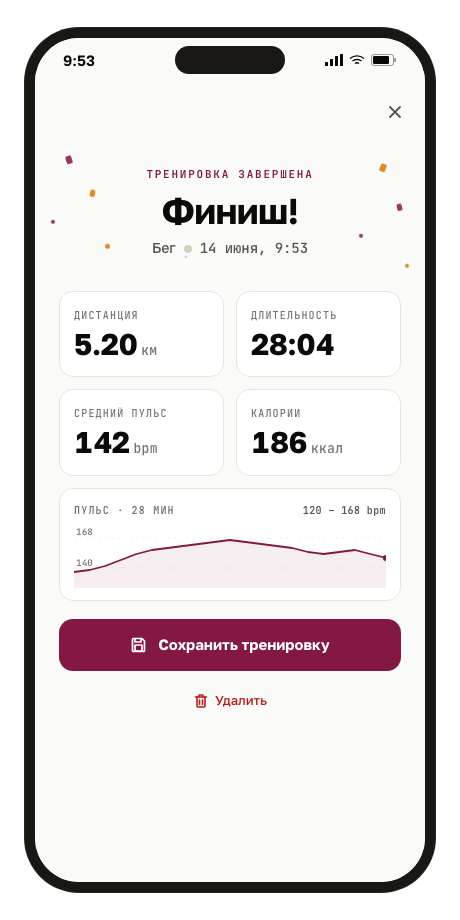
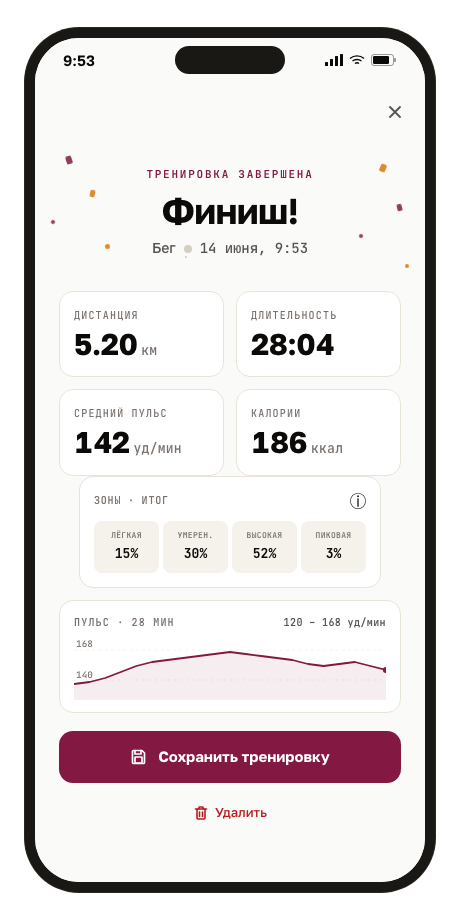
16a end-of-session + 16c close-confirm · итоговые зоны + русский
Post-session frames получили финальный zones-итог block
(без live-режима, только распределение %). Согласовано с PM
как вариант (b): zones-strip как итоговая статистика без STOP.

16a END-OF-SESSION SUMMARY (9:4):
- Добавлен блок 'Зоны · итог' между stats grid и sparkline
- 4 zones (Лёгкая 15% / Умерен. 30% / Высокая 52% active / Пиковая 3%)
- Chip 'уд/мин' вместо 'bpm' в stat card 'Средний пульс'
- Spark range '120–168 bpm' → '120–168 уд/мин'
- Кнопки 'Сохранить тренировку' / 'Удалить' сохранены
- Confetti + Hero 'Финиш!' сохранены

16c CLOSE CONFIRM (9:5):
- Same background layout (end-body-dimmed) — same zones-итог block dim
- Modal 'Закрыть без сохранения?' поверх с Удалить / Отмена
- Consistent с 16a background после rework

Infrastructure:
- Новый CSS .end-zones-card + .end-zones-head + .end-zones-title
- Slicer уже покрывал end-of-session file, никаких доп. правок

Все 5 state-фреймов training/post-training теперь консистентны с v3 layout:
15a stop-confirm · 15b auto-pause · 15c gps-lost · 16a end-of-session (итог) · 16c close-confirm

diff --git a/docs_web/wireframes/m3/mobile-state-end-of-session-bracelet-disconnect-v0.html b/docs_web/wireframes/m3/mobile-state-end-of-session-bracelet-disconnect-v0.html
@@ -1043,6 +1043,38 @@
       border-radius: 5px;
     }
 
+
+    /* End-of-session · zones-итог card */
+    .end-zones-card {
+      background: var(--card);
+      border: 1px solid var(--border);
+      border-radius: 14px;
+      padding: 12px 14px 14px;
+      margin: 0 20px;
+      display: flex;
+      flex-direction: column;
+      gap: 8px;
+    }
+    .end-zones-head {
+      display: flex;
+      align-items: center;
+      justify-content: space-between;
+    }
+    .end-zones-title {
+      font-family: 'JetBrains Mono', monospace;
+      font-size: 10px;
+      font-weight: 600;
+      letter-spacing: 0.08em;
+      text-transform: uppercase;
+      color: var(--muted-foreground);
+    }
+    .end-zones-strip {
+      background: transparent;
+      padding: 0;
+      border-top: none;
+      display: flex;
+      gap: 4px;
+    }
   </style>
 </head>
 <body>
@@ -1124,7 +1156,7 @@
                 <span class="l">Средний пульс</span>
                 <div class="row">
                   <span class="v">142</span>
-                  <span class="u">bpm</span>
+                  <span class="u">уд/мин</span>
                 </div>
               </div>
               <div class="end-stat-card" role="listitem">
@@ -1136,11 +1168,25 @@
               </div>
             </div>
 
+            <!-- Zones · итог (post-session summary) -->
+            <div class="end-zones-card">
+              <div class="end-zones-head">
+                <span class="end-zones-title">Зоны · итог</span>
+                <button class="info-btn" aria-label="Как рассчитываются зоны">ⓘ</button>
+              </div>
+              <div class="zones-strip end-zones-strip">
+                <div class="zone-cell"><span class="z-lbl long">ЛЁГКАЯ</span><span class="z-pct">15%</span></div>
+                <div class="zone-cell"><span class="z-lbl long">УМЕРЕН.</span><span class="z-pct">30%</span></div>
+                <div class="zone-cell active"><span class="z-lbl long">ВЫСОКАЯ</span><span class="z-pct">52%</span></div>
+                <div class="zone-cell"><span class="z-lbl long">ПИКОВАЯ</span><span class="z-pct">3%</span></div>
+              </div>
+            </div>
+
             <!-- Mini sparkline -->
             <div class="end-spark-card" aria-label="Пульс за тренировку">
               <div class="end-spark-head">
                 <span class="end-spark-title">Пульс · 28 мин</span>
-                <span class="end-spark-range">120 – 168 bpm</span>
+                <span class="end-spark-range">120 – 168 уд/мин</span>
               </div>
               <svg class="end-spark-svg" viewBox="0 0 300 64" preserveAspectRatio="none" aria-hidden="true">
                 <!-- y axis tick lines -->
@@ -1382,7 +1428,7 @@
                 <span class="l">Средний пульс</span>
                 <div class="row">
                   <span class="v">142</span>
-                  <span class="u">bpm</span>
+                  <span class="u">уд/мин</span>
                 </div>
               </div>
               <div class="end-stat-card" role="listitem">
@@ -1394,11 +1440,25 @@
               </div>
             </div>
 
+            <!-- Zones · итог (post-session summary) -->
+            <div class="end-zones-card">
+              <div class="end-zones-head">
+                <span class="end-zones-title">Зоны · итог</span>
+                <button class="info-btn" aria-label="Как рассчитываются зоны">ⓘ</button>
+              </div>
+              <div class="zones-strip end-zones-strip">
+                <div class="zone-cell"><span class="z-lbl long">ЛЁГКАЯ</span><span class="z-pct">15%</span></div>
+                <div class="zone-cell"><span class="z-lbl long">УМЕРЕН.</span><span class="z-pct">30%</span></div>
+                <div class="zone-cell active"><span class="z-lbl long">ВЫСОКАЯ</span><span class="z-pct">52%</span></div>
+                <div class="zone-cell"><span class="z-lbl long">ПИКОВАЯ</span><span class="z-pct">3%</span></div>
+              </div>
+            </div>
+
             <!-- Mini sparkline -->
             <div class="end-spark-card" aria-label="Пульс за тренировку">
               <div class="end-spark-head">
                 <span class="end-spark-title">Пульс · 28 мин</span>
-                <span class="end-spark-range">120 – 168 bpm</span>
+                <span class="end-spark-range">120 – 168 уд/мин</span>
               </div>
               <svg class="end-spark-svg" viewBox="0 0 300 64" preserveAspectRatio="none" aria-hidden="true">
                 <line x1="0" y1="14" x2="300" y2="14" stroke="#e8e4d8" stroke-width="0.6" stroke-dasharray="2 4"/>